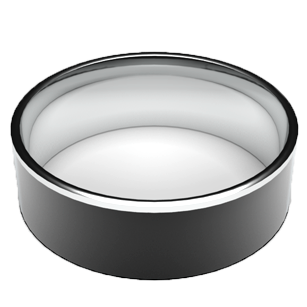
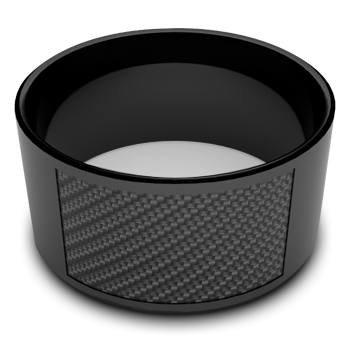
bitcoin ring page updated images and fixes

diff --git a/bitcoin/js/jquery.smooth-scroll.min.js b/bitcoin/js/jquery.smooth-scroll.min.js
@@ -1,0 +1,7 @@
+/*!
+ * Smooth Scroll - v1.4.13 - 2013-11-02
+ * https://github.com/kswedberg/jquery-smooth-scroll
+ * Copyright (c) 2013 Karl Swedberg
+ * Licensed MIT (https://github.com/kswedberg/jquery-smooth-scroll/blob/master/LICENSE-MIT)
+ */
+(function(t){function e(t){return t.replace(/(:|\.)/g,"\\$1")}var l="1.4.13",o={},s={exclude:[],excludeWithin:[],offset:0,direction:"top",scrollElement:null,scrollTarget:null,beforeScroll:function(){},afterScroll:function(){},easing:"swing",speed:400,autoCoefficent:2,preventDefault:!0},n=function(e){var l=[],o=!1,s=e.dir&&"left"==e.dir?"scrollLeft":"scrollTop";return this.each(function(){if(this!=document&&this!=window){var e=t(this);e[s]()>0?l.push(this):(e[s](1),o=e[s]()>0,o&&l.push(this),e[s](0))}}),l.length||this.each(function(){"BODY"===this.nodeName&&(l=[this])}),"first"===e.el&&l.length>1&&(l=[l[0]]),l};t.fn.extend({scrollable:function(t){var e=n.call(this,{dir:t});return this.pushStack(e)},firstScrollable:function(t){var e=n.call(this,{el:"first",dir:t});return this.pushStack(e)},smoothScroll:function(l,o){if(l=l||{},"options"===l)return o?this.each(function(){var e=t(this),l=t.extend(e.data("ssOpts")||{},o);t(this).data("ssOpts",l)}):this.first().data("ssOpts");var s=t.extend({},t.fn.smoothScroll.defaults,l),n=t.smoothScroll.filterPath(location.pathname);return this.unbind("click.smoothscroll").bind("click.smoothscroll",function(l){var o=this,r=t(this),i=t.extend({},s,r.data("ssOpts")||{}),c=s.exclude,a=i.excludeWithin,f=0,h=0,u=!0,d={},p=location.hostname===o.hostname||!o.hostname,m=i.scrollTarget||(t.smoothScroll.filterPath(o.pathname)||n)===n,S=e(o.hash);if(i.scrollTarget||p&&m&&S){for(;u&&c.length>f;)r.is(e(c[f++]))&&(u=!1);for(;u&&a.length>h;)r.closest(a[h++]).length&&(u=!1)}else u=!1;u&&(i.preventDefault&&l.preventDefault(),t.extend(d,i,{scrollTarget:i.scrollTarget||S,link:o}),t.smoothScroll(d))}),this}}),t.smoothScroll=function(e,l){if("options"===e&&"object"==typeof l)return t.extend(o,l);var s,n,r,i,c=0,a="offset",f="scrollTop",h={},u={};"number"==typeof e?(s=t.extend({link:null},t.fn.smoothScroll.defaults,o),r=e):(s=t.extend({link:null},t.fn.smoothScroll.defaults,e||{},o),s.scrollElement&&(a="position","static"==s.scrollElement.css("position")&&s.scrollElement.css("position","relative"))),f="left"==s.direction?"scrollLeft":f,s.scrollElement?(n=s.scrollElement,/^(?:HTML|BODY)$/.test(n[0].nodeName)||(c=n[f]())):n=t("html, body").firstScrollable(s.direction),s.beforeScroll.call(n,s),r="number"==typeof e?e:l||t(s.scrollTarget)[a]()&&t(s.scrollTarget)[a]()[s.direction]||0,h[f]=r+c+s.offset,i=s.speed,"auto"===i&&(i=h[f]||n.scrollTop(),i/=s.autoCoefficent),u={duration:i,easing:s.easing,complete:function(){s.afterScroll.call(s.link,s)}},s.step&&(u.step=s.step),n.length?n.stop().animate(h,u):s.afterScroll.call(s.link,s)},t.smoothScroll.version=l,t.smoothScroll.filterPath=function(t){return t.replace(/^\//,"").replace(/(?:index|default).[a-zA-Z]{3,4}$/,"").replace(/\/$/,"")},t.fn.smoothScroll.defaults=s})(jQuery);

diff --git a/bitcoin/index.html b/bitcoin/index.html
@@ -9,6 +9,7 @@
 		<script type="text/javascript" src="http://use.typekit.net/zzq3jqd.js"></script>
 		<script type="text/javascript">try{Typekit.load();}catch(e){}</script>
 		<link rel="stylesheet" type="text/css" href="css/nfcring.css" media="screen" />
+		<link rel="stylesheet" href="../../js/fancybox/jquery.fancybox.css?v=2.1.5" type="text/css" media="screen" />
     <link rel="stylesheet" type="text/css" href="../stylesheets/pygment_trac.css" media="screen" />
     <!--[if lt IE 9]>
     <script src="//html5shiv.googlecode.com/svn/trunk/html5.js"></script>
@@ -38,13 +39,8 @@
 	  		</div>
 	  		
 	  		<div class="video block">
-		  		<div onclick="thevid=document.getElementById('video'); thevid.style.display='block'; this.style.display='none'">
-		  			<img src="img/video-thumb.jpg" alt="Watch the video">
-		  		</div>
 		  		<div class="video-wrap">
-						<div id="video" class="video-container">
-							<iframe width="853" height="480" src="//www.youtube.com/embed/bqvQ0pZhEBY?rel=0" frameborder="0" allowfullscreen></iframe>
-						</div>
+		  			<a class="popup" data-fancybox-type="iframe" href="//www.youtube.com/embed/bqvQ0pZhEBY?rel=0"><img src="img/video-thumb.jpg" alt="Watch the video"></a>
 		  		</div>
 	  		</div>
   		</div>
@@ -60,7 +56,7 @@
 				</div>
 				
 				<div class="ring block" id="nfcring-alpha">
-					<img src="img/nfcring-classic.png" alt="Alpha NFC Ring">
+					<img src="img/nfcring-alpha.png" alt="Alpha NFC Ring">
 					<h3>Alpha</h3>
 					<a class="coinbase-button" data-code="69d6df19f342acfda1ec6f27baeb2886" href="https://coinbase.com/checkouts/69d6df19f342acfda1ec6f27baeb2886">Pre-order now</a>
 				</div>
@@ -72,7 +68,11 @@
 				</div>
   		</div>
   		
-  		<h3 class="message">0.06BTC - TODAY ONLY EXCLUSIVE <span>Ships January 2014</span></h3>
+  		<div class="message">
+	  		<h3>0.06BTC - TODAY ONLY EXCLUSIVE <span>Free shipping anywhere in the world</span></h3>
+	  		<p>Ships January 2014</p>
+  		</div>
+  		
 		</section>
 		
 		<section class="kickstarter">
@@ -153,6 +153,10 @@
 		</footer>
 		
 		<script src="//ajax.googleapis.com/ajax/libs/jquery/1.10.2/jquery.min.js"></script>
+		<script src="../js/fancybox/jquery.fancybox.pack.js"></script>
+		<script src="js/fluidvids.min.js"></script>
+		<script src="js/jquery.smooth-scroll.min.js"></script>
+		<script src="js/main.js"></script>
 		<script src="https://coinbase.com/assets/button.js" type="text/javascript"></script>
     <script type="text/javascript">
 		  var _gaq = _gaq || [];

diff --git a/bitcoin/js/fluidvids.min.js b/bitcoin/js/fluidvids.min.js
@@ -1,0 +1,9 @@
+/*!
+ *  FluidVids.js v2.0.0
+ *  Responsive and fluid YouTube/Vimeo video embeds.
+ *  Project: https://github.com/toddmotto/fluidvids
+ *  by Todd Motto: http://toddmotto.com
+ *
+ *  Copyright 2013 Todd Motto. MIT licensed.
+ */
+window.Fluidvids=function(a,b){"use strict";var c,d,e=b.head||b.getElementsByTagName("head")[0],f=".fluidvids-elem{position:absolute;top:0px;left:0px;width:100%;height:100%;}.fluidvids{width:100%;position:relative;}",g=function(a){return c=new RegExp("^(https?:)?//(?:"+d.join("|")+").*$","i"),c.test(a)},h=function(a){var c=b.createElement("div"),d=a.parentNode,e=100*(parseInt(a.height?a.height:a.offsetHeight,10)/parseInt(a.width?a.width:a.offsetWidth,10));d.insertBefore(c,a),a.className+=" fluidvids-elem",c.className+=" fluidvids",c.style.paddingTop=e+"%",c.appendChild(a)},i=function(){var a=b.createElement("style");a.styleSheet?a.styleSheet.cssText=f:a.appendChild(b.createTextNode(f)),e.appendChild(a)},j=function(a){var c=a||{},e=c.selector||"iframe";d=c.players||["www.youtube.com","player.vimeo.com"];for(var f=b.querySelectorAll(e),j=0;j<f.length;j++){var k=f[j];g(k.src)&&h(k)}i()};return{init:j}}(window,document);

diff --git a/bitcoin/css/nfcring.css b/bitcoin/css/nfcring.css
@@ -117,6 +117,9 @@ img {
   overflow: hidden;
   padding: 0 0 1em 0;
 }
+.starter .wrap {
+  max-width: 1015px;
+}
 .starter .block {
   padding: 0 1.5%;
 }
@@ -135,7 +138,7 @@ img {
   max-width: 290px;
 }
 .starter .video {
-  text-align: center;
+  text-align: right;
   padding-top: 2em;
   width: 96%;
 }
@@ -144,22 +147,11 @@ img {
   cursor: pointer;
   border: 1px solid #c1c1c1;
 }
-.starter .video .video-wrap {
-  max-width: 530px;
+.starter .video .video-wrap img {
+  max-width: 580px;
 }
-.starter .video .video-container {
-  display: none;
-  width: 100%;
-  position: relative;
-  height: 0;
-  padding-bottom: 51%;
-}
-.starter .video .video-container iframe {
-  position: absolute;
-  top: 0;
-  right: 0;
-  width: 100%;
-  height: 100%;
+.starter .video a {
+  display: inline-block;
 }
 .starter .btc-friday {
   text-align: center;
@@ -217,6 +209,9 @@ img {
 }
 .rings .message span {
   display: block;
+}
+.rings .message p {
+  font-size: 2em;
 }
 .kickstarter {
   background: #ffffff;

diff --git a/bitcoin/css/less/content.less b/bitcoin/css/less/content.less
@@ -2,6 +2,10 @@
 	overflow:hidden;
 	padding:0 0 1em 0;
 	
+	.wrap {
+		max-width:1015px;
+	}
+	
 	.block {
 		padding:0 1.5%;
 	}
@@ -28,7 +32,7 @@
 	}
 	
 	.video {
-		text-align:center;
+		text-align:right;
 		padding-top:2em;
 		width:96%;
 		
@@ -40,25 +44,14 @@
 		}
 		
 		.video-wrap {
-			max-width:530px;
-		}
-		
-		.video-container {
-			display: none;
-		  width: 100%;
-		  position: relative;
-		  height: 0;
-		  padding-bottom: 51%;
-
-			iframe {
-				position: absolute;
-				top: 0;
-				right: 0;
-				width: 100%;
-				height: 100%;
+			img {
+				max-width:580px;
 			}
 		}
 		
+		a {
+			display:inline-block;
+		}
 	}
 	
 	.btc-friday {
@@ -127,6 +120,10 @@
 		
 		span {
 			display:block;
+		}
+		
+		p {
+			font-size:2em;
 		}
 	}
 }
@@ -282,7 +279,6 @@
 				display: inline-block;
 				cursor: pointer;
 				border:1px solid @lgrey;
-				
 			}
 		}
 	}

diff --git a/bitcoin/js/main.js b/bitcoin/js/main.js
@@ -1,0 +1,20 @@
+$(function() {
+		
+		$(".popup").fancybox({
+			maxWidth	: 800,
+			maxHeight	: 600,
+			fitToView	: false,
+			width		: '70%',
+			height		: '70%',
+			autoSize	: false,
+			closeClick	: false,
+			openEffect	: 'none',
+			closeEffect	: 'none'
+		});
+
+		$('.preorder .button').smoothScroll({
+			offset: -100
+		});
+
+
+});
